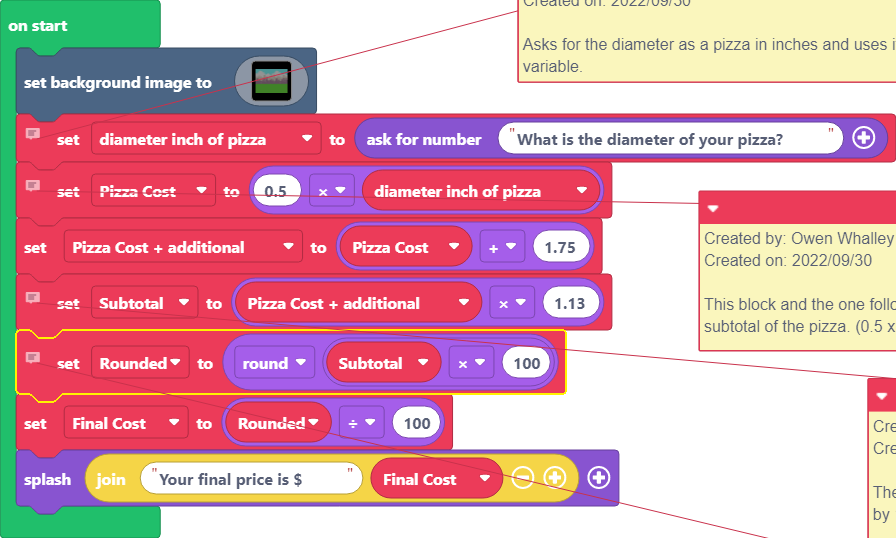
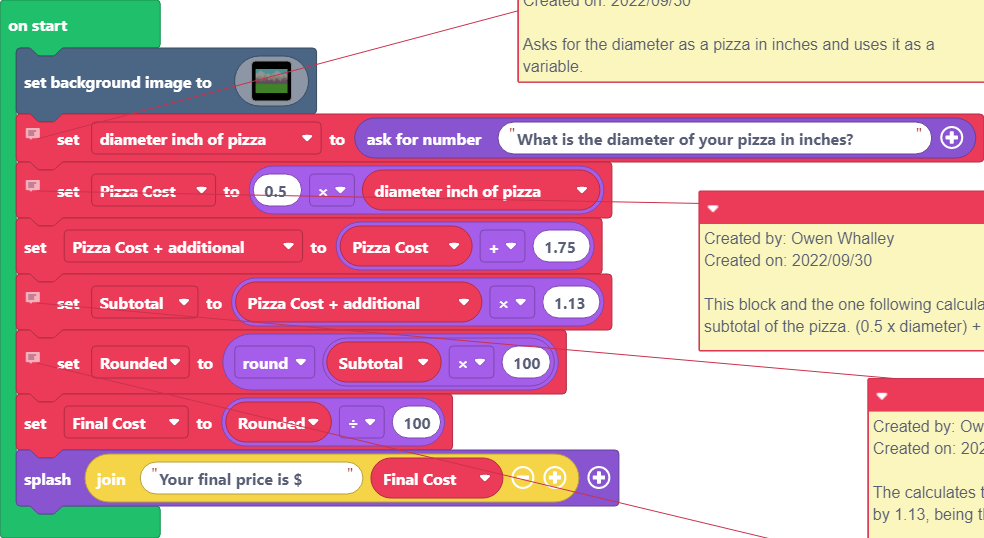
Update main.blocks, main.ts

diff --git a/main.ts b/main.ts
@@ -124,7 +124,7 @@ scene.setBackgroundImage(img`
 // Created on: 2022/09/30
 // 
 // Asks for the diameter as a pizza in inches and uses it as a variable.
-let diameter_inch_of_pizza = game.askForNumber("What is the diameter of your pizza?")
+let diameter_inch_of_pizza = game.askForNumber("What is the diameter of your pizza in inches?")
 // Created by: Owen Whalley
 // Created on: 2022/09/30
 // 
